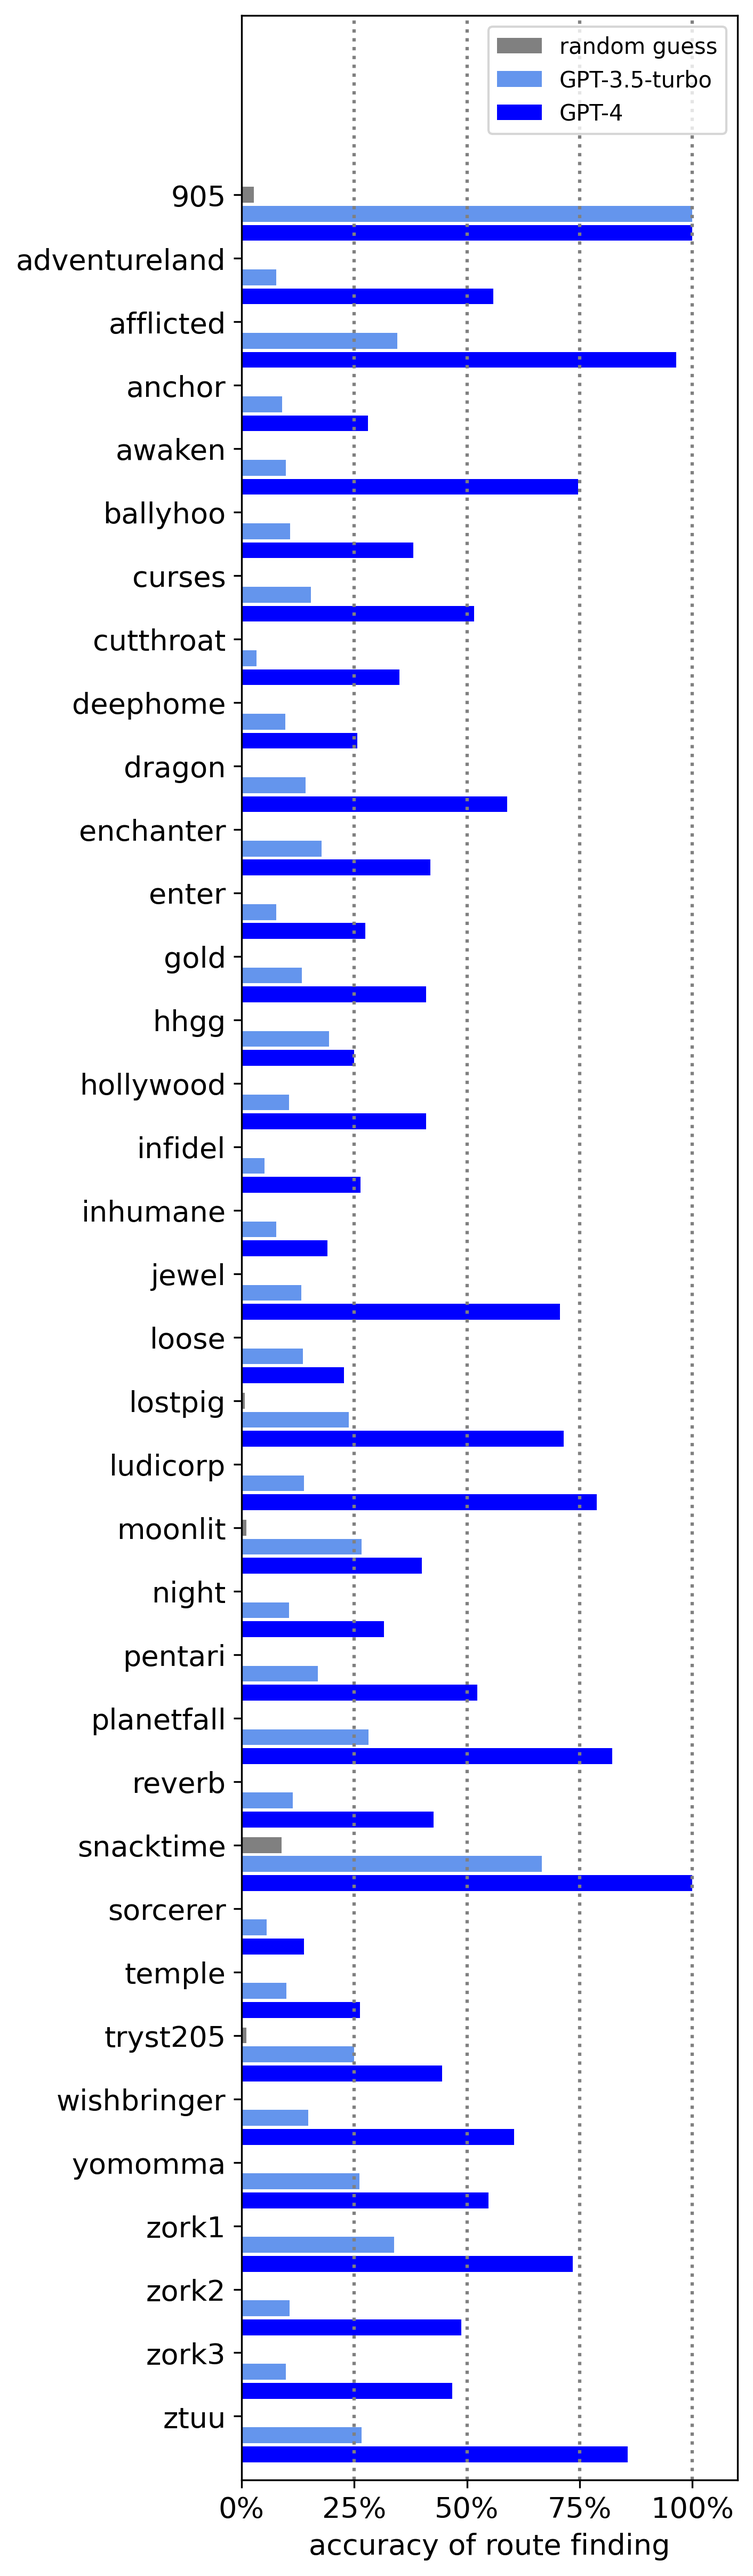
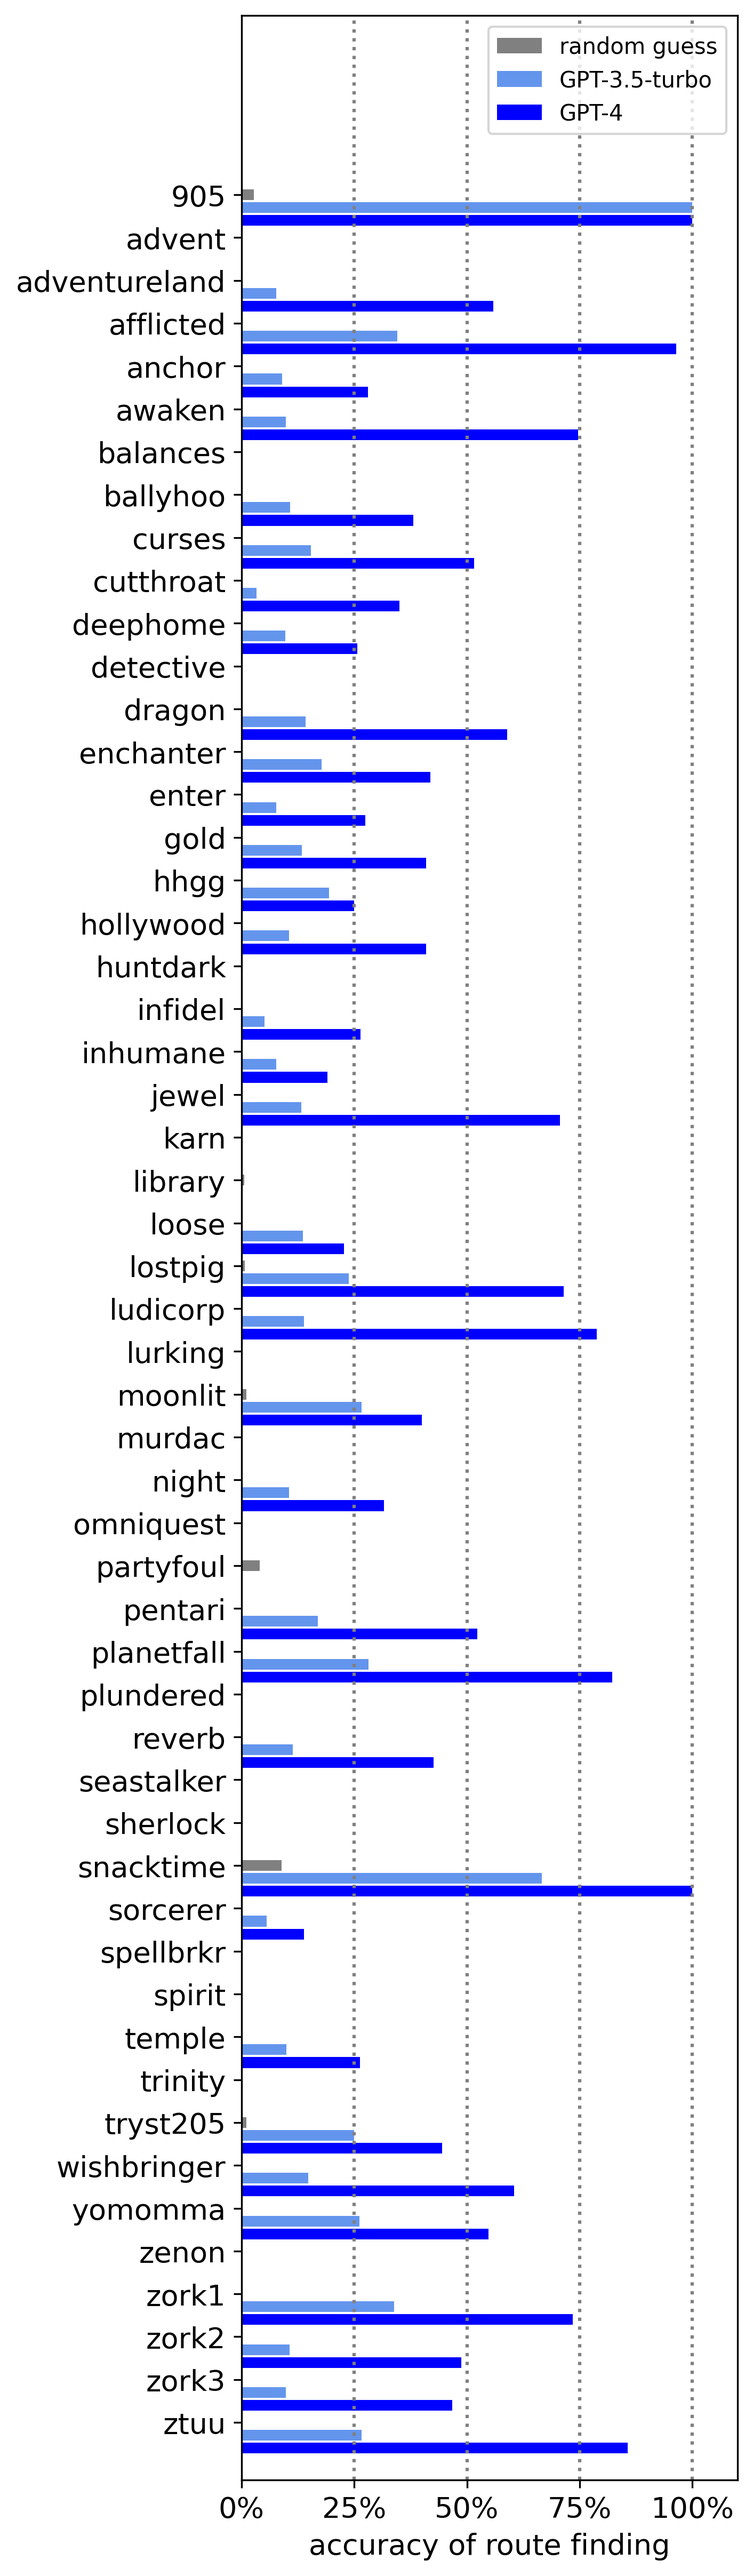
zero out non-collected games

Changed region(s): [[0.0312, 0.0621, 0.9348, 0.9629]]

diff --git a/src/gen_plots/gpt.destination.py b/src/gen_plots/gpt.destination.py
@@ -50,8 +50,10 @@ for game_name in game_names:
     random_scores[game_name] = random_desti
 
 
-model1_scores = np.random.uniform(0.3, 1, num_games)  # fake data for gpt3.5
-model2_scores = np.random.uniform(0.3, 1, num_games)  # fake data for gpt4
+# generate zero array
+model1_scores = np.zeros(num_games)
+model2_scores = np.zeros(num_games)
+
 # update these to a dict like random_scores
 model1_scores = {k: model1_scores[i] for i, k in enumerate(game_names)}
 model2_scores = {k: model2_scores[i] for i, k in enumerate(game_names)}
@@ -72,10 +74,10 @@ for game_name in game_names:
     if game_name in model2_real:
         model2_scores[game_name] = model2_real[game_name]["nice"]
 
-# skip games that are not in the real data by edit the game_names list
-game_names = [
-    each for each in game_names if each in model1_real and each in model2_real
-]
+# # skip games that are not in the real data by edit the game_names list
+# game_names = [
+#     each for each in game_names if each in model1_real and each in model2_real
+# ]
 
 # ============== following is the plotting part ==============
 

diff --git a/src/gen_plots/gpt.route.py b/src/gen_plots/gpt.route.py
@@ -50,8 +50,10 @@ for game_name in game_names:
     random_scores[game_name] = random_route
 
 
-model1_scores = np.random.uniform(0.3, 1, num_games)  # fake data for gpt3.5
-model2_scores = np.random.uniform(0.3, 1, num_games)  # fake data for gpt4
+# generate zero array
+model1_scores = np.zeros(num_games)
+model2_scores = np.zeros(num_games)
+
 # update these to a dict like random_scores
 model1_scores = {k: model1_scores[i] for i, k in enumerate(game_names)}
 model2_scores = {k: model2_scores[i] for i, k in enumerate(game_names)}
@@ -74,10 +76,10 @@ for game_name in game_names:
     if game_name in model2_real:
         model2_scores[game_name] = model2_real[game_name]["nice"]
 
-# skip games that are not in the real data by edit the game_names list
-game_names = [
-    each for each in game_names if each in model1_real and each in model2_real
-]
+# # skip games that are not in the real data by edit the game_names list
+# game_names = [
+#     each for each in game_names if each in model1_real and each in model2_real
+# ]
 
 # ============== following is the plotting part ==============
 

diff --git a/src/gen_plots/gpt.together.py b/src/gen_plots/gpt.together.py
@@ -51,10 +51,10 @@ for game_name in game_names:
     random_scores_RF[game_name] = random_route
 
 
-model1_scores_DF = np.random.uniform(0.3, 1, num_games)
-model2_scores_DF = np.random.uniform(0.3, 1, num_games)
-model1_scores_RF = np.random.uniform(0.3, 1, num_games)
-model2_scores_RF = np.random.uniform(0.3, 1, num_games)
+model1_scores_DF = np.zeros(num_games)
+model2_scores_DF = np.zeros(num_games)
+model1_scores_RF = np.zeros(num_games)
+model2_scores_RF = np.zeros(num_games)
 model1_scores_DF = {k: model1_scores_DF[i] for i, k in enumerate(game_names)}
 model2_scores_DF = {k: model2_scores_DF[i] for i, k in enumerate(game_names)}
 model1_scores_RF = {k: model1_scores_RF[i] for i, k in enumerate(game_names)}
